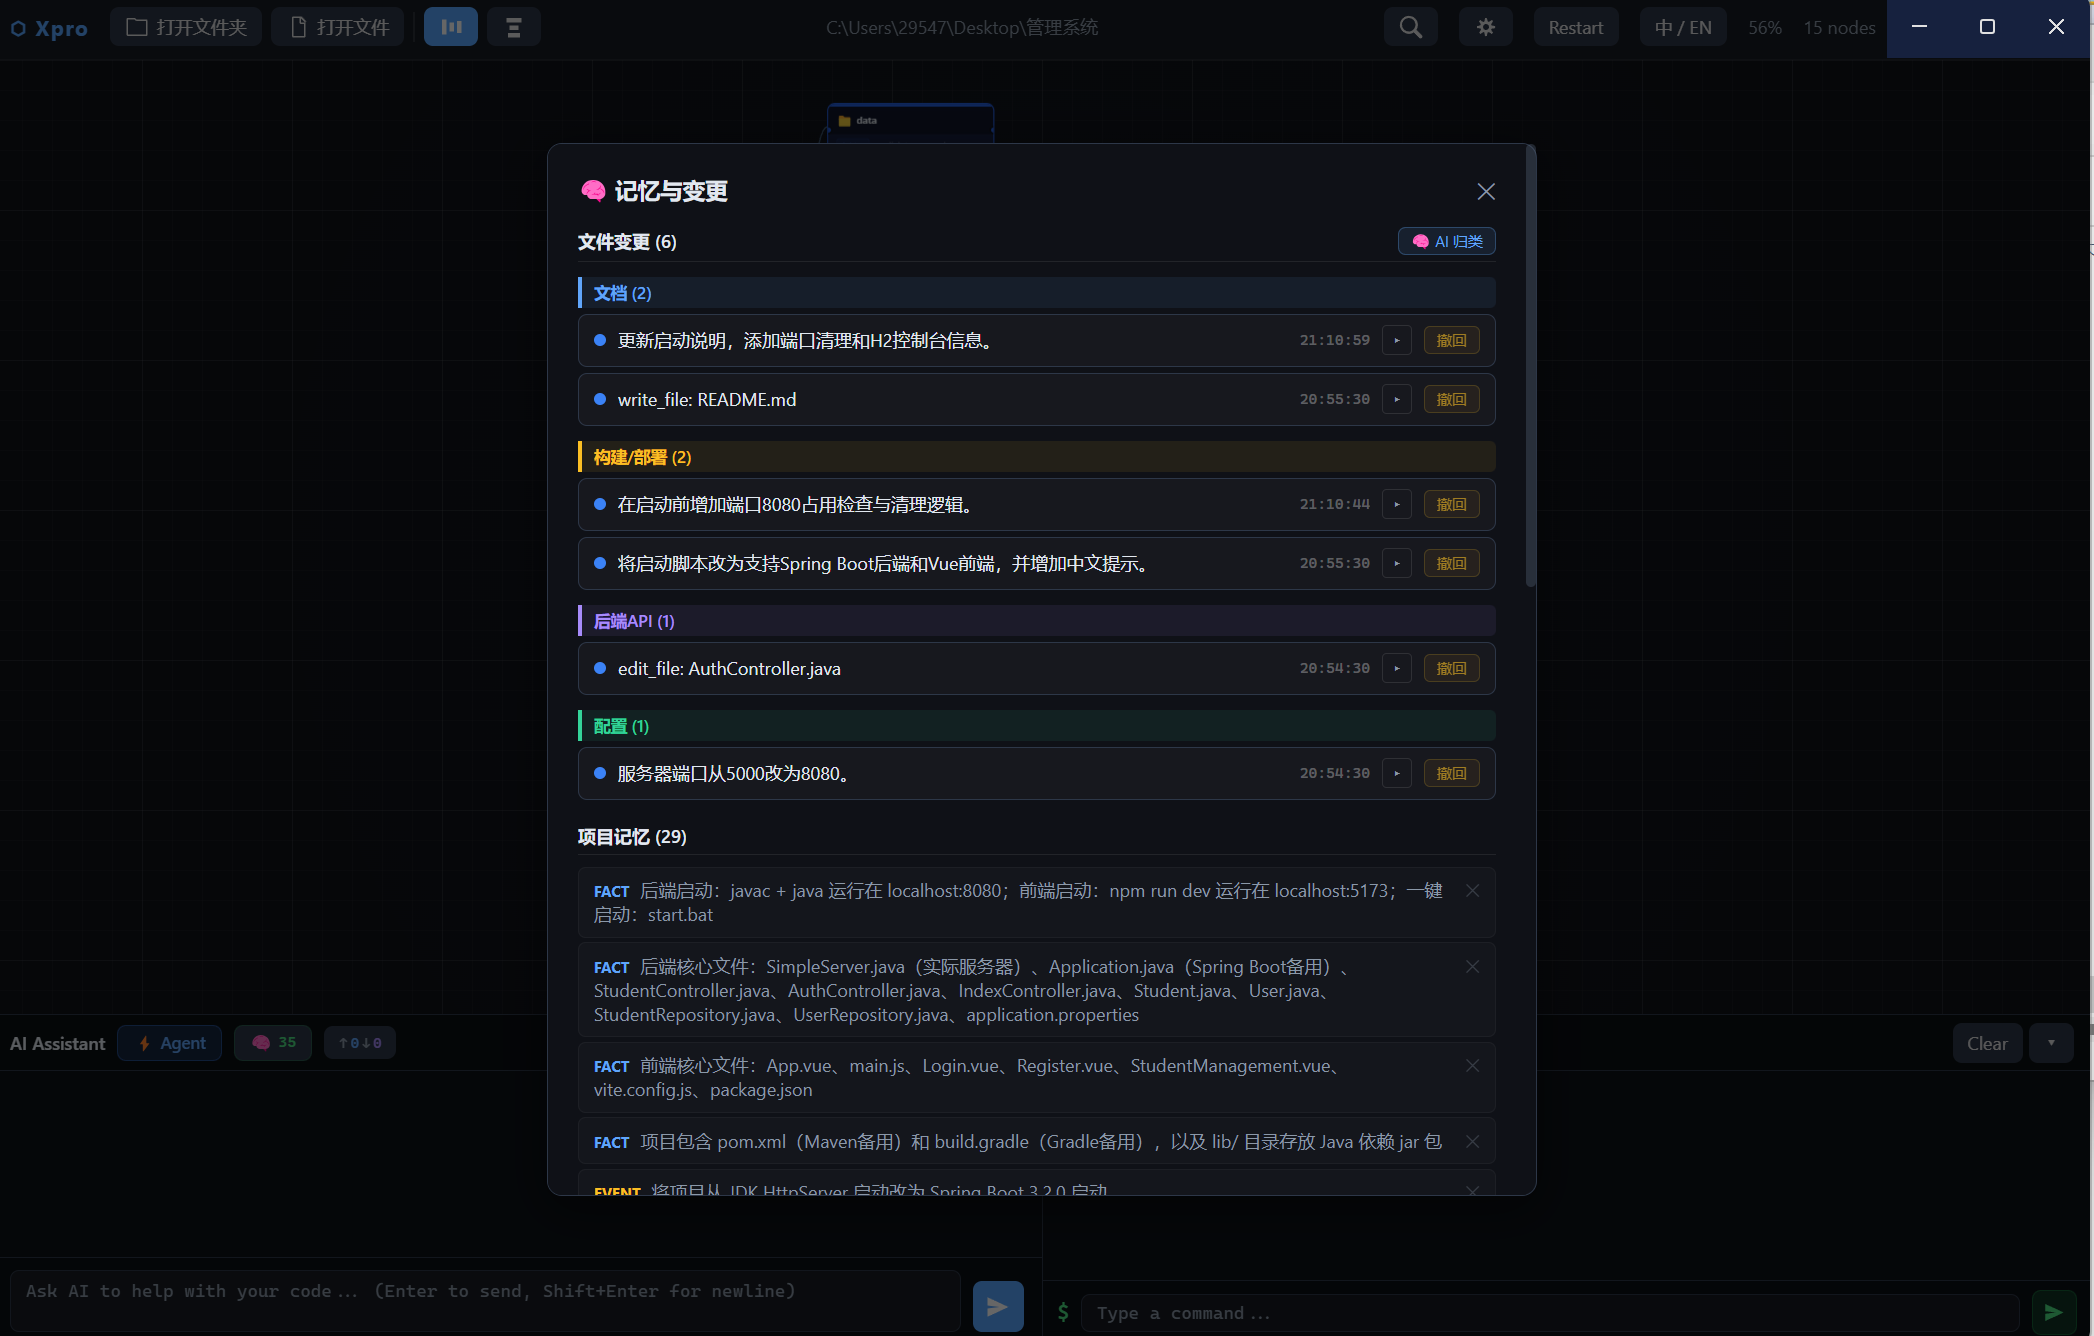
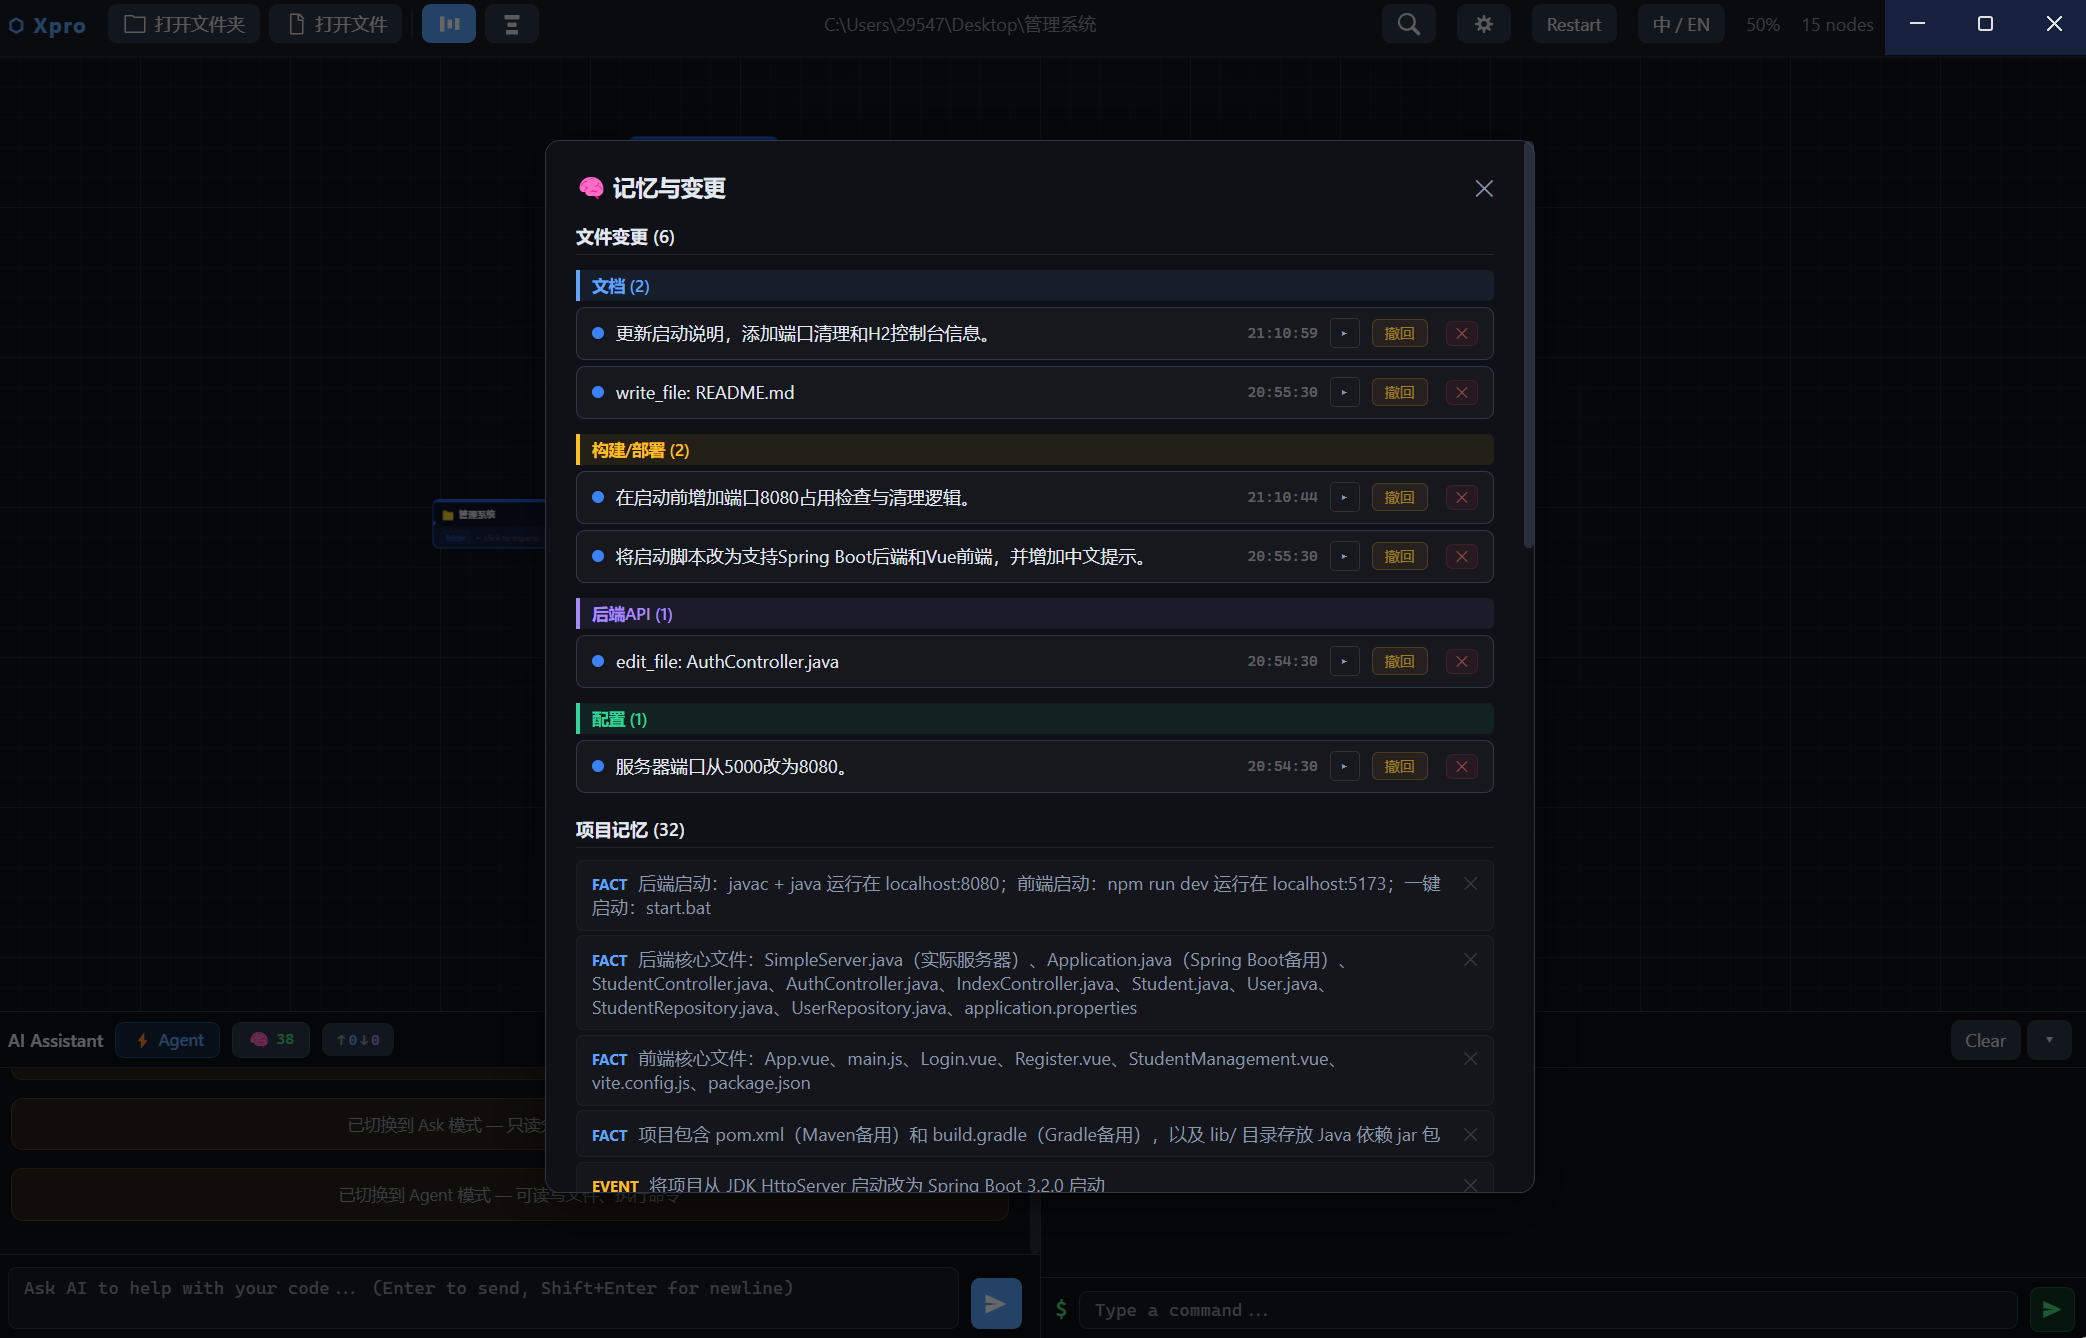
docs: update memory panel screenshot with delete buttons

diff --git a/src/renderer/components/WorkflowCanvas.ts b/src/renderer/components/WorkflowCanvas.ts
@@ -2002,40 +2002,6 @@ export class WorkflowCanvas {
     changeTitle.innerHTML = isZh ? `文件变更 (${checkpoints.length})` : `File Changes (${checkpoints.length})`;
     panel.appendChild(changeTitle);
 
-    // AI Categorize button
-    if (checkpoints.length >= 2) {
-      const catBtn = document.createElement('button');
-      catBtn.style.cssText = 'background:rgba(96,165,250,0.1);border:1px solid rgba(96,165,250,0.3);border-radius:5px;color:#60a5fa;font-size:10px;padding:2px 8px;cursor:pointer;';
-      catBtn.textContent = isZh ? '🧠 AI 归类' : '🧠 AI Categorize';
-      catBtn.onclick = async () => {
-        catBtn.textContent = isZh ? '分析中...' : 'Analyzing...';
-        catBtn.style.opacity = '0.5';
-        catBtn.style.pointerEvents = 'none';
-        const provider = (document.getElementById('ai-provider') as HTMLSelectElement)?.value || 'openai';
-        const model = (document.getElementById('ai-model') as HTMLInputElement)?.value || 'gpt-4o';
-        const isAnt = provider === 'anthropic';
-        const config = {
-          model, provider,
-          apiKey: isAnt ? this.aiConfig.anthropicKey : this.aiConfig.openaiKey,
-          baseUrl: isAnt ? this.aiConfig.anthropicBase : this.aiConfig.openaiBase,
-        };
-        const uncategorized = CheckpointService.getUncategorized();
-        const changes = uncategorized.map(cp => ({
-          id: cp.id,
-          label: cp.label,
-          filePath: cp.snapshots[0]?.path || '',
-        }));
-        try {
-          const res = await window.xpro.memoryCategorize(config, changes);
-          if (res.ok && res.mapping) {
-            CheckpointService.updateCategories(res.mapping);
-          }
-        } catch {}
-        overlay.remove();
-        this.showMemoryPanel();
-      };
-      changeTitle.appendChild(catBtn);
-    }
 
     if (checkpoints.length === 0) {
       const emptyMsg = document.createElement('div');
@@ -2198,6 +2164,20 @@ export class WorkflowCanvas {
       actionBtn.textContent = isZh ? '恢复' : 'Redo';
     }
     row.appendChild(actionBtn);
+
+    const delBtn = document.createElement('button');
+    delBtn.className = 'mem-action-btn';
+    delBtn.textContent = '✕';
+    delBtn.title = isZh ? '删除此记录' : 'Delete';
+    delBtn.style.cssText = 'background:rgba(239,68,68,0.1);border:1px solid rgba(239,68,68,0.2);color:#f87171;font-size:10px;padding:1px 6px;margin-left:4px;border-radius:4px;cursor:pointer;';
+    delBtn.addEventListener('click', () => {
+      CheckpointService.remove(cp.id);
+      overlay.remove();
+      this.updateMemoryIndicator();
+      this.showMemoryPanel();
+    });
+    row.appendChild(delBtn);
+
     item.appendChild(row);
 
     const diffContainer = document.createElement('div');

diff --git a/src/renderer/services/CheckpointService.ts b/src/renderer/services/CheckpointService.ts
@@ -154,6 +154,13 @@ class CheckpointServiceClass {
     return this.checkpoints.filter(c => !c.category);
   }
 
+  /** 删除单个检查点 */
+  remove(checkpointId: string) {
+    this.checkpoints = this.checkpoints.filter(c => c.id !== checkpointId);
+    this.notify();
+    this.save();
+  }
+
   /** 清除所有检查点 */
   clear() {
     this.checkpoints = [];